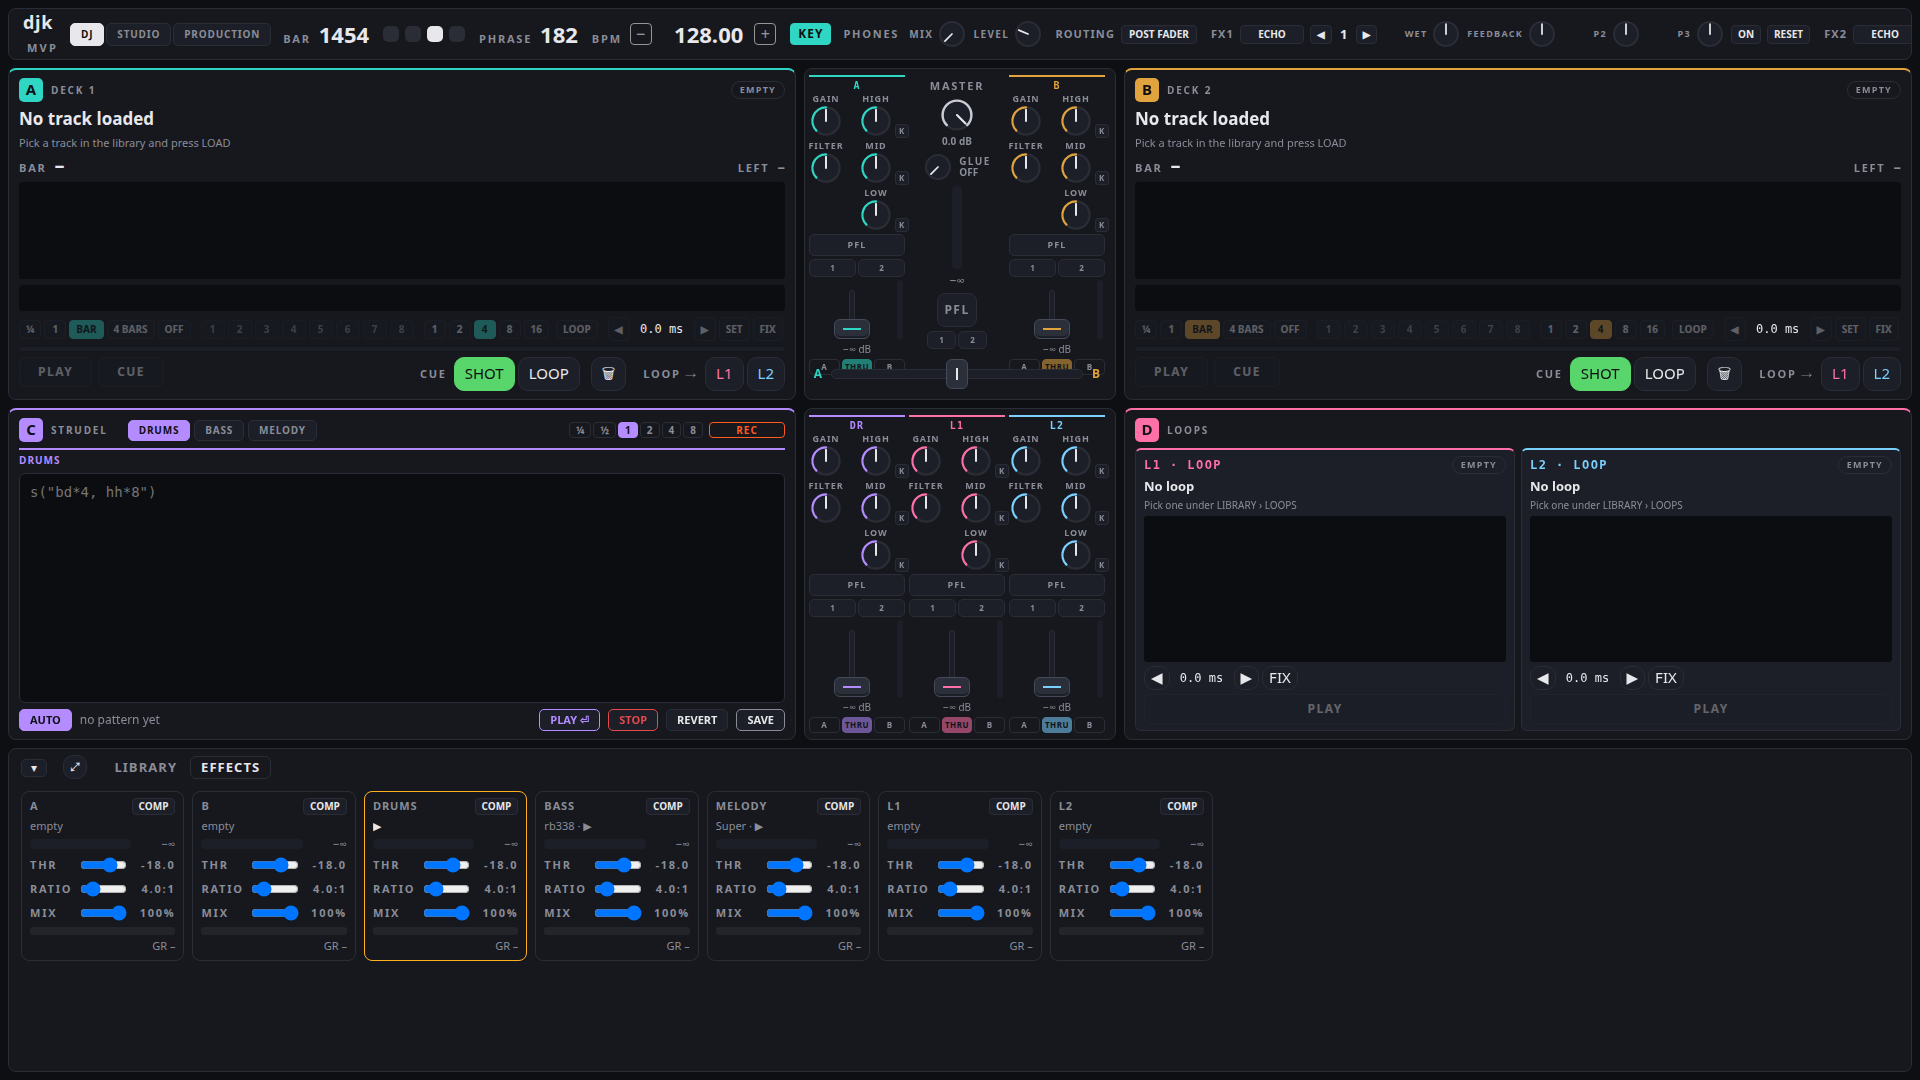
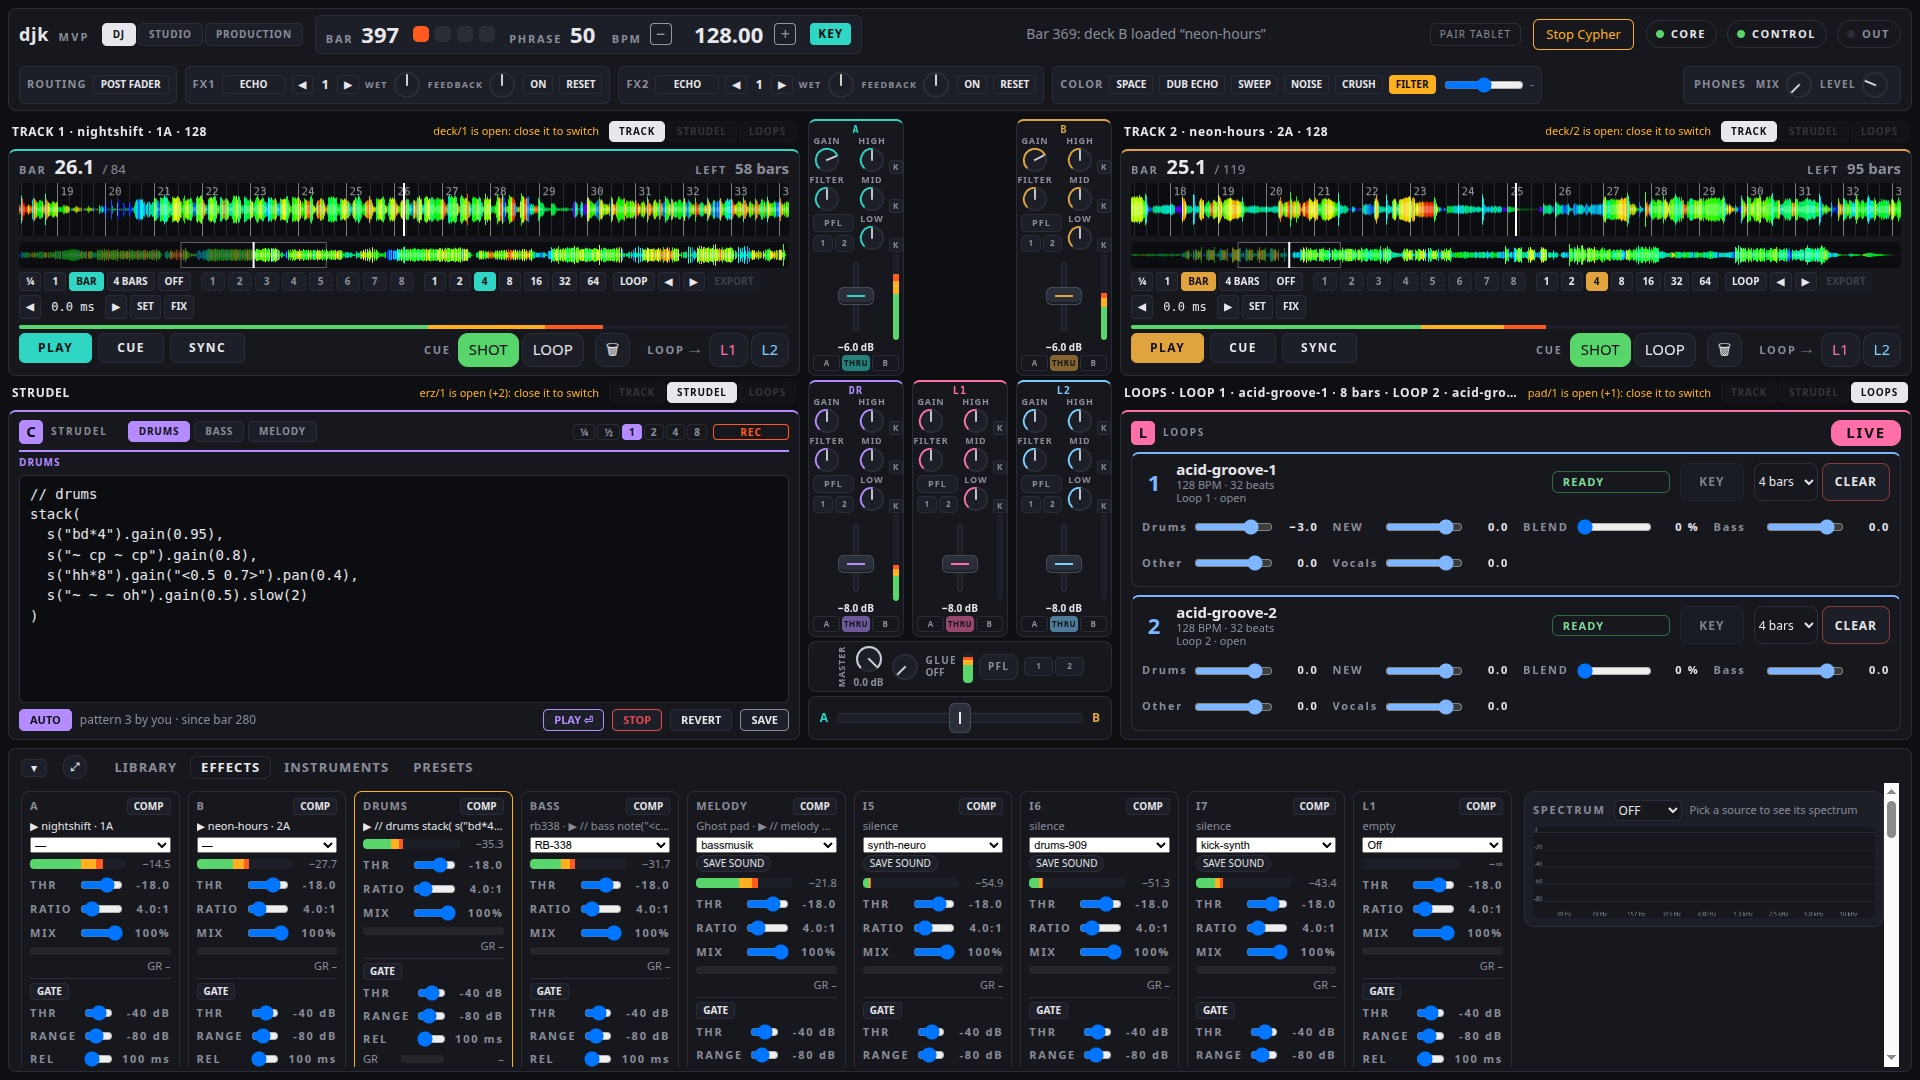
New screenshots: DJ view with four places, studio, production, library and effects; overview collage rebuilt and a second collage of instruments and plug-ins; captions updated

diff --git a/djk/ui/public/style.css b/djk/ui/public/style.css
@@ -783,6 +783,17 @@ body:not(.studio) #pult .xfader { grid-area: xf; padding: 4px 8px;   /* grid-col
 #platz-loops .loops-leer b { color: var(--text); font-size: 15px; }
 #platz-loops .livetaste.gross { margin: 0; height: 56px; padding: 0 44px; font-size: 20px; background: var(--farbe); border-color: var(--farbe); color: #0e0f12; }
 body:not(.studio) .deck .lauf { min-height: 24px; }
+/* DJ view, short places (1920x1080: a top place is 219 px, the deck needs about 270): the rows of a deck never shrink below their text (they
+   overlapped the BAR row and the next place head), only the waveform gives room. Below 290 px the deck drops its title and meta lines, which the
+   place head already shows (title, key, tempo), and its head row, and closes its gaps; what still does not fit is clipped inside the deck, not drawn over its neighbour. */
+body:not(.studio) #pult > .deck { container: deckplatz / size; overflow: hidden; }
+body:not(.studio) #pult > .deck > * { flex-shrink: 0; }
+body:not(.studio) #pult > .deck > .lauf { flex: 1 1 24px; min-height: 16px; }
+@container deckplatz (max-height: 290px) {
+  .deck > .titel, .deck > .meta, .deck > .deckkopf { display: none; }   /* deck letter, status and title are in the place head and the strip */
+  .deck > .deckkopf, .deck > .position, .deck > .bedienreihe, .deck > .tasten { margin-top: -2px; }
+  .deck > .ueber { height: 16px; }   /* the overview gives its height to the waveform */
+}
 .deck .taste.sync { letter-spacing: .12em; }
 body:not(.studio) .zug[hidden][data-mix-zeile] { display: grid !important; }   /* decks 3 and 4 keep hidden in the HTML (Studio view); a place shows them */
 
@@ -808,3 +819,22 @@ body:not(.studio) #pult .zug .faderwert { grid-row: 6; grid-column: 1 / -1; }
 body:not(.studio) #pult .zug .xzuweisung { grid-row: 7; grid-column: 1 / -1; }
 body:not(.studio) #pult .zug .regler.senkrecht .bahn { height: calc(100% - 18px); margin: 9px 0; }
 body:not(.studio) #pult .zug .regler.senkrecht .kappe { height: 18px; margin-bottom: -9px; }
+
+/* Header, 2026-11-13 (Andreas: "die obere box ist undurchsichtig"): two rows of framed groups instead of one wrapping flow.
+   Row 1: brand, view, clock and tempo, messages, tablet, Stop Cypher, connections. Row 2: beat FX routing, FX1, FX2, COLOR, headphones.
+   An empty ::before with order 9 and full width forces the break; a row that does not fit wraps whole groups, it never overlaps them.
+   P2 and P3 of the beat FX are reserved and reach no DSP (mixer.cpp fx_einheit_setze), so the header does not show them. */
+#kopf { display: flex; flex-wrap: wrap; align-items: center; column-gap: 12px; row-gap: 6px; padding: 6px 10px; }
+#kopf::before { content: ''; order: 9; flex: 0 0 100%; height: 0; }
+#kopf > .marke { order: 1; } #kopf > .ansicht { order: 2; } #kopf > .uhr { order: 3; } #kopf > .ansage { order: 4; flex: 1 1 0; text-align: center; }
+#kopf > #kopplung-knopf { order: 5; } #kopf > .cypher { order: 6; } #kopf > .verbindungen { order: 7; }
+#kopf > #fx { order: 10; } #kopf > .kopfmix { order: 11; margin-left: auto; }
+#kopf > .uhr, #kopf > .kopfmix, #fx > .fxrouting, #fx > .fxeinheit { background: var(--panel2); border: 1px solid var(--line); border-radius: 6px;
+  padding: 3px 10px; min-height: 34px; box-sizing: border-box; }
+#fx { display: flex; gap: 8px; flex-wrap: wrap; row-gap: 6px; min-width: 0; }
+#fx > .fxrouting { display: flex; align-items: center; gap: 6px; font-size: 11px; }
+#fx > .fxrouting > label, #kopf > .kopfmix > .phones { color: var(--dim); font-weight: 700; letter-spacing: .1em; font-size: 11px; }
+.fxeinheit .summe.klein:has([data-fx="param2"]), .fxeinheit .summe.klein:has([data-fx="param3"]) { display: none; }
+.fxeinheit .summe.klein > span { min-width: 0; }
+.colorfx button { white-space: nowrap; }
+@media (max-width: 2200px) { .colorfx .colorparam > span { display: none; } .colorfx #colorparam { width: 80px; } #fx > .fxeinheit, #fx > .fxrouting { padding: 3px 7px; } }

diff --git a/docs/gallery.md b/docs/gallery.md
@@ -3,13 +3,13 @@
 Taken on the development machine with our own songs and the factory sample packs; the folder tree of the library is
 scrolled away or collapsed.
 
-![DJ view: two decks with 3-band waveforms, mixer, Strudel channel and loop boxes](screens/dj-view.png)
+![DJ view with four places: two track decks, a Strudel place and the Loops place with two live modules, around one mixer](screens/dj-view.png)
 
-![Studio view: three Strudel channels with automation lanes](screens/studio-view.png)
+![Studio view: three Strudel channels with multi-line patterns, the channel strips and the master meter](screens/studio-view.png)
 
 ![PRODUCTION view: four stems under the muted original, the warp editor in COMPLEX mode](screens/production-warp-stems.png)
 
-![PRODUCTION view: audio kick, RB-338 bass, frozen Surge XT lead, piano roll of the bass line](screens/production-view.png)
+![PRODUCTION view: an arrangement with MIDI clips, a resampled audio track, DRUMS and MUSIC groups and a return; the bass clip open in the piano roll](screens/production-view.png)
 
 ![Cypher Modular: the eight instrument knobs of a patch in the expanded EFFECTS view](screens/instrument-knobs.png)
 
@@ -19,8 +19,8 @@ scrolled away or collapsed.
 
 ![Device page of Poly Synth: oscillator, second oscillator, unison, filter, envelopes, LFO, chorus, voice and tuning](screens/device-page-poly-synth.png)
 
-![Media library browser: one-shot samples filtered by instrument, with pack and length](screens/library-browser.png)
+![Media library: tracks filtered by a search word, with key, tempo, length, loudness and a load button per deck](screens/library-browser.png)
 
-![Effects strip: a compressor on every source channel](screens/effects.png)
+![Effects strip: a compressor and a gate on every source channel](screens/effects.png)
 
 ![Cue tool: whole-track overview, 3-band waveform and eight cue pads](screens/cue-tool.png)

diff --git a/README.md b/README.md
@@ -9,7 +9,9 @@ Built in Germany by Andreas, a DJ, and Cypher, an AI agent (Claude models), sinc
 > **Status: public beta, looking for testers.** It runs on Linux and has been tested on one machine so far, see
 > [Try it](#try-it-we-are-looking-for-testers).
 
-![Overview: DJ view, studio, warp and stems, arrangement with piano roll, Cypher Modular, media library, cue tool, compressor](docs/screens/overview.png)
+![Overview: DJ view with four places, studio, warp and stems, arrangement with piano roll, a Cypher Modular device page, media library, cue tool, loop slots with live modules](docs/screens/overview.png)
+
+![Instruments and plug-ins: Mono Synth, Poly Synth, Neuro Bass, Drums 909, Kick Synth, Cypher Labor, the plug-in browser with search and a third-party plug-in as an instrument track](docs/screens/instruments.png)
 
 ## What it is
 

diff --git a/docs/production.md b/docs/production.md
@@ -118,7 +118,7 @@ state of a target as a new preset.
 
 ## Arrangement, piano roll, export
 
-![PRODUCTION view: three tracks (audio kick, RB-338 bass, frozen Surge XT lead), 8-bar loop, piano roll of the bass line](screens/production-view.png)
+![PRODUCTION view: an arrangement with MIDI clips, a resampled audio track, DRUMS and MUSIC groups and a return; the bass clip open in the piano roll](screens/production-view.png)
 
 Notes are drawn in a piano roll with velocity and 1/16 quantize. Tracks can share a variant group (bass A, B, C) where
 one click makes one of them audible. Recording takes one of the studio's own channels, including the extra pattern
